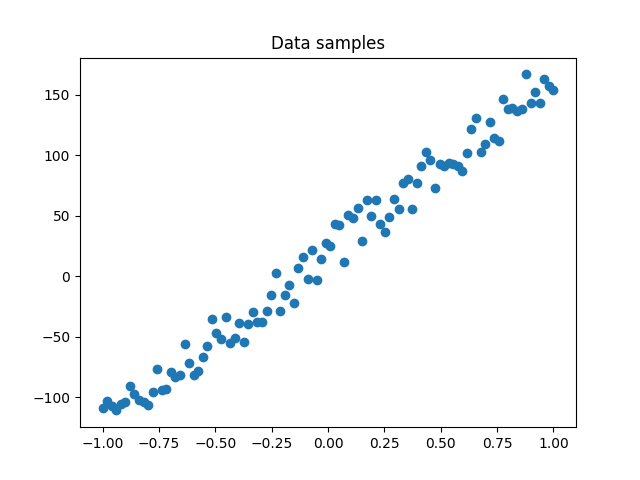
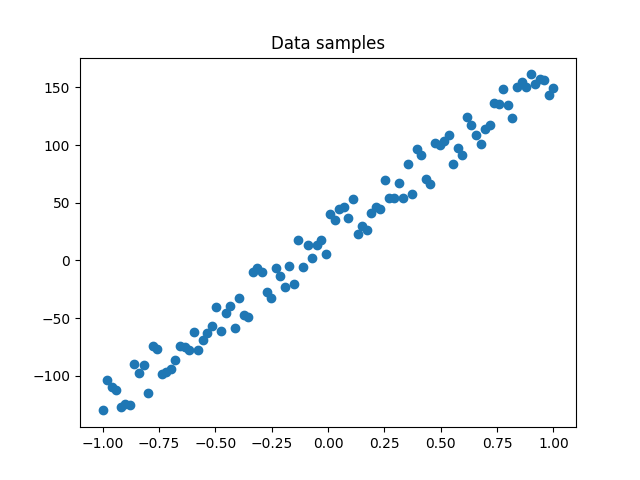
Fixed some stuff

diff --git a/part1.py b/part1.py
@@ -7,6 +7,8 @@ import matplotlib.pyplot as plt
 from sklearn.linear_model import LinearRegression
 from sklearn.metrics import mean_squared_error
 
+np.random.seed(42)
+
 os.remove('part1.log') if os.path.exists('part1.log') else None
 
 formatter = logging.Formatter('%(name)s  %(asctime)s - %(message)s')
@@ -25,7 +27,7 @@ logger.addHandler(file_handler)
 
 class MyLinearRegression:
     def __init__(self, weights_init='random', add_bias=True, learning_rate=1e-4,
-        num_iterations=1_000_000, max_error=1e-6, verbose=True, num_messages=100):
+        num_iterations=150_000, max_error=1e-6, verbose=True, num_messages=100):
         ''' Linear regression model using gradient descent 
 
         # Arguments
